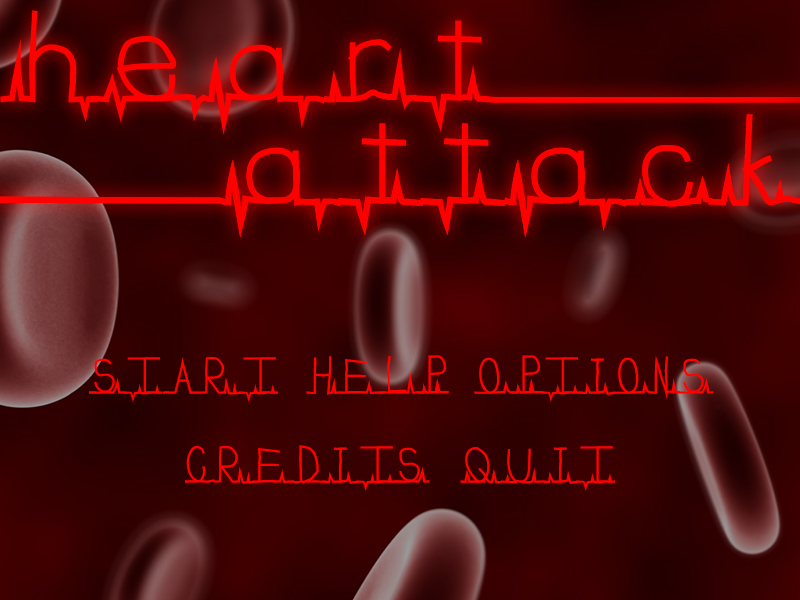
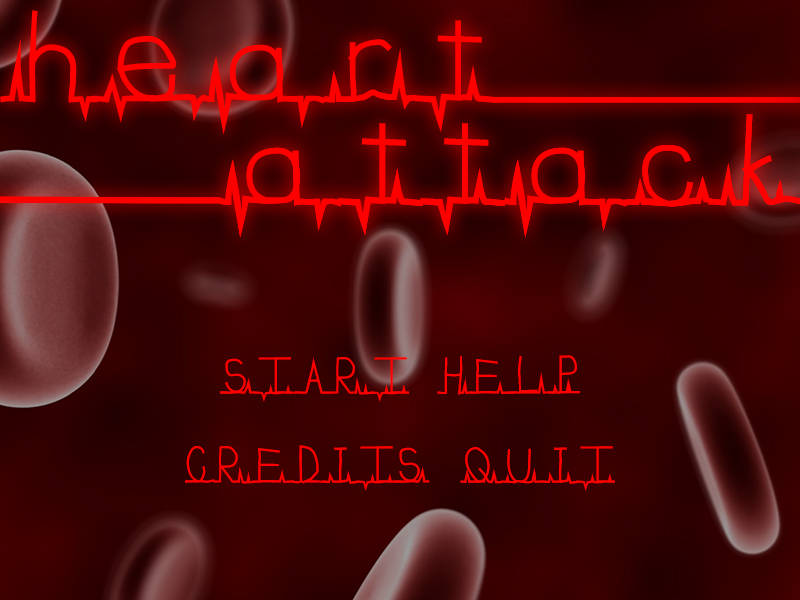
removed options, linked start game

Changed region(s): [[0.0938, 0.57, 0.9062, 0.66], [0.3438, 0.57, 0.375, 0.6]]

diff --git a/main.py b/main.py
@@ -390,16 +390,19 @@ class Mainmenu:
 					
 	def stop(self):
 		self.running = False
+	
+	def startgame(self):
+		game = Game(self.screen)
+		game.start() 
 					
 	def start(self):
 		
 
-		start = Button(pygame.Surface((190,43)).convert(),(183,379),lambda: asd, 'res/start.PNG')
-		help = Button(pygame.Surface((143,43)).convert(),(378,379),lambda: asd, 'res/help.PNG')
-		options = Button(pygame.Surface((240,43)).convert(),(595,379),lambda: asd, 'res/options.PNG')
+		start = Button(pygame.Surface((190,43)).convert(),(315,379),self.startgame , 'res/start.PNG')
+		help = Button(pygame.Surface((143,43)).convert(),(508,379),lambda: asd, 'res/help.PNG')
 		credits = Button(pygame.Surface((244,41)).convert(),(308,469),lambda: asd, 'res/credits.PNG')
 		quit = Button(pygame.Surface((153,41)).convert(),(537,468),self.stop  , 'res/quit.PNG')
-		self.mainoptions.add(start,help,options,credits,quit)
+		self.mainoptions.add(start,help,credits,quit)
 		
 		
 		while(self.running):
@@ -529,14 +532,10 @@ if __name__ == '__main__':
 	SCREEN = pygame.display.set_mode((800, 600))
 	#pygame.display.toggle_fullscreen()
 	
-	
-	
+
 	mmenu = Mainmenu(SCREEN)
 	mmenu.start()
 	
-	
-	game = Game(SCREEN)
-	game.start()
 
 
 
